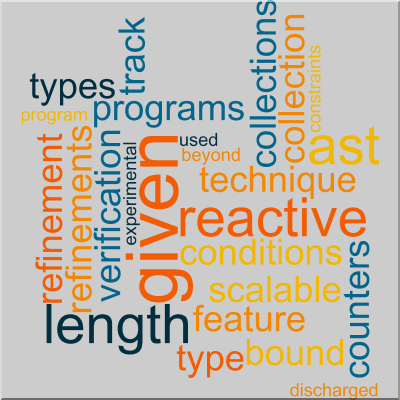
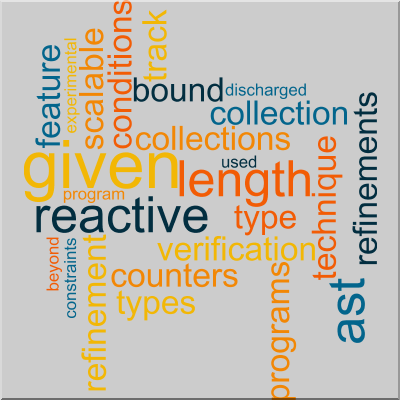
Fix VMCAI'19 typo

diff --git a/papers/bounding-vmcai19.html b/papers/bounding-vmcai19.html
@@ -8,8 +8,8 @@
    <head>
       <meta http-equiv="content-type" content="text/html; charset=utf-8"></meta>
       <title>
-         VMCAI 2019
-         :
+         				VMCAI 2019
+         			:
          	Type-directed Bounding of Collections in Reactive Programs  |  CUPLV
       </title><script xmlns="" type="text/javascript" src="lib/sh_main.min.js"></script><script xmlns="" type="text/javascript" src="lib/sh_bib.js"></script><link xmlns="" href="lib/sh_style.css" rel="stylesheet" type="text/css"><script xmlns="" type="text/javascript">
 	  (function(w) { var p = w.onload;
@@ -49,8 +49,8 @@
             <div id="header">
                <div xmlns="" class="small-title">Type-directed Bounding of Collections in Reactive Programs</div>
                <div xmlns="" class="subtitle">
-                  <a href="https://popl19.sigplan.org/track/VMCAI-2019">VMCAI 2019</a>
-                  
+                  				<a href="https://popl19.sigplan.org/track/VMCAI-2019">VMCAI 2019</a>
+                  			
                </div>
             </div>
             <h4 xmlns="">Reference</h4>
@@ -65,14 +65,14 @@
                   <div class="item-header hanging">Type-directed Bounding of Collections in Reactive Programs</div>
                   <div class="hanging"><a href="https://plv.colorado.edu/tianhan/">Tianhan Lu</a>, <a href="http://ecee.colorado.edu/pavol/">Pavol Černý</a>, <a href="http://www.cs.colorado.edu/~bec/">Bor-Yuh Evan Chang</a>,  and <a href="http://www.cs.colorado.edu/~astr3586/">Ashutosh Trivedi</a></div>
                   <div class="hanging">
-                     <a href="https://popl19.sigplan.org/track/VMCAI-2019">VMCAI 2019</a>:
+                     				<a href="https://popl19.sigplan.org/track/VMCAI-2019">VMCAI 2019</a>:
                      International Conference on Verification, Model Checking, and Abstract Interpretation
-                     
+                     			
                   </div>
                </div>
             </div>
             <h4 xmlns="">Abstract</h4>
-            Our aim is to statically verify that in a given reactive program, the length of collection variables does not grow beyond
+            				Our aim is to statically verify that in a given reactive program, the length of collection variables does not grow beyond
             a given bound. We propose a scalable type-based technique that checks that each collection variable has a given refinement
             type that specifies constraints about its length. A novel feature of our refinement types is that the refinements can refer
             to AST counters that track how many times an AST node has been executed. This feature enables type refinements to track limited
@@ -80,7 +80,7 @@
             that the types imply the given bound. The verification conditions are discharged by an off-the-shelf SMT solver. Experimental
             results demonstrate that our technique is scalable, and effective at verifying reactive programs with respect to requirements
             on length of collections.
-            
+            			
             <h4 xmlns="">BibTeX</h4><pre xmlns="" class="sh_bib">
 @string{VMCAI = "International Conference on Verification, Model Checking, and Abstract Interpretation (VMCAI)"}
 @inproceedings{bounding-vmcai19,

diff --git a/index.html b/index.html
@@ -300,7 +300,7 @@
                      				<a href="http://ecee.colorado.edu/pavol/">Pavol Černý</a>,
                      				<a href="http://www.cs.colorado.edu/~bec/">Bor-Yuh Evan Chang</a>, and
                      				<a href="http://www.cs.colorado.edu/~astr3586/">Ashutosh Trivedi</a>
-                     				have had a paper "" accepted for presentation at
+                     				have had a paper "<a href="papers/bounding-vmcai19.html">Type-directed Bounding of Collections in Reactive Programs</a>" accepted for presentation at
                      				<a href="https://popl19.sigplan.org/track/VMCAI-2019">VMCAI 2019</a> in January.
                      			
                   </div>
@@ -438,7 +438,7 @@
                <div class="news-item" id="paper-vmcai19">2018.11.23:
                   
                   				Paper by
-                  				 accepted to
+                  				<a href="papers/bounding-vmcai19.html">Lu  et al.</a> accepted to
                   				<a href="https://popl19.sigplan.org/track/VMCAI-2019">VMCAI 2019</a>.
                   			
                </div>
@@ -658,12 +658,12 @@
             </div>
             <h2 xmlns=""><a href="https://popl19.sigplan.org/track/VMCAI-2019">VMCAI 2019</a><span class="subh">Cascais, Portugal</span><span class="subh">January 2019</span></h2>
             <div xmlns="" class="item">
-               <div class="item-icon"><a href="papers/verivita-vmcai19.pdf" onClick="_gaq.push(['_trackPageview', '/papers/verivita-vmcai19.pdf']);"><img src="clouds/verivita-vmcai19.words.png" class="icon"></a></div>
+               <div class="item-icon"><a href="papers/bounding-vmcai19.pdf" onClick="_gaq.push(['_trackPageview', '/papers/bounding-vmcai19.pdf']);"><img src="clouds/bounding-vmcai19.words.png" class="icon"></a></div>
                <div class="item-block">
                   <div class="item-date">2019</div>
                   <ul class="hlinks">
-                     <li><a href="papers/verivita-vmcai19.html">detail</a></li>
-                     <li><a href="papers/verivita-vmcai19.pdf" onClick="_gaq.push(['_trackPageview', '/papers/verivita-vmcai19.pdf']);">pdf</a></li>
+                     <li><a href="papers/bounding-vmcai19.html">detail</a></li>
+                     <li><a href="papers/bounding-vmcai19.pdf" onClick="_gaq.push(['_trackPageview', '/papers/bounding-vmcai19.pdf']);">pdf</a></li>
                   </ul>
                   <div class="item-header hanging">Type-directed Bounding of Collections in Reactive Programs</div>
                   <div class="hanging"><a href="https://plv.colorado.edu/tianhan/">Tianhan Lu</a>, <a href="http://ecee.colorado.edu/pavol/">Pavol Černý</a>, <a href="http://www.cs.colorado.edu/~bec/">Bor-Yuh Evan Chang</a>,  and <a href="http://www.cs.colorado.edu/~astr3586/">Ashutosh Trivedi</a></div>

diff --git a/papers.html b/papers.html
@@ -155,12 +155,12 @@
                </div>
             </div>
             <div xmlns="" class="item">
-               <div class="item-icon"><a href="papers/verivita-vmcai19.pdf" onClick="_gaq.push(['_trackPageview', '/papers/verivita-vmcai19.pdf']);"><img src="clouds/verivita-vmcai19.words.png" class="icon"></a></div>
+               <div class="item-icon"><a href="papers/bounding-vmcai19.pdf" onClick="_gaq.push(['_trackPageview', '/papers/bounding-vmcai19.pdf']);"><img src="clouds/bounding-vmcai19.words.png" class="icon"></a></div>
                <div class="item-block">
                   <div class="item-date">2019</div>
                   <ul class="hlinks">
-                     <li><a href="papers/verivita-vmcai19.html">detail</a></li>
-                     <li><a href="papers/verivita-vmcai19.pdf" onClick="_gaq.push(['_trackPageview', '/papers/verivita-vmcai19.pdf']);">pdf</a></li>
+                     <li><a href="papers/bounding-vmcai19.html">detail</a></li>
+                     <li><a href="papers/bounding-vmcai19.pdf" onClick="_gaq.push(['_trackPageview', '/papers/bounding-vmcai19.pdf']);">pdf</a></li>
                   </ul>
                   <div class="item-header hanging">Type-directed Bounding of Collections in Reactive Programs</div>
                   <div class="hanging"><a href="https://plv.colorado.edu/tianhan/">Tianhan Lu</a>, <a href="http://ecee.colorado.edu/pavol/">Pavol Černý</a>, <a href="http://www.cs.colorado.edu/~bec/">Bor-Yuh Evan Chang</a>,  and <a href="http://www.cs.colorado.edu/~astr3586/">Ashutosh Trivedi</a></div>

diff --git a/news.html b/news.html
@@ -141,7 +141,7 @@
                				<a href="http://ecee.colorado.edu/pavol/">Pavol Černý</a>,
                				<a href="http://www.cs.colorado.edu/~bec/">Bor-Yuh Evan Chang</a>, and
                				<a href="http://www.cs.colorado.edu/~astr3586/">Ashutosh Trivedi</a>
-               				have had a paper "" accepted for presentation at
+               				have had a paper "<a href="papers/bounding-vmcai19.html">Type-directed Bounding of Collections in Reactive Programs</a>" accepted for presentation at
                				<a href="https://popl19.sigplan.org/track/VMCAI-2019">VMCAI 2019</a> in January.
                			
             </p>
